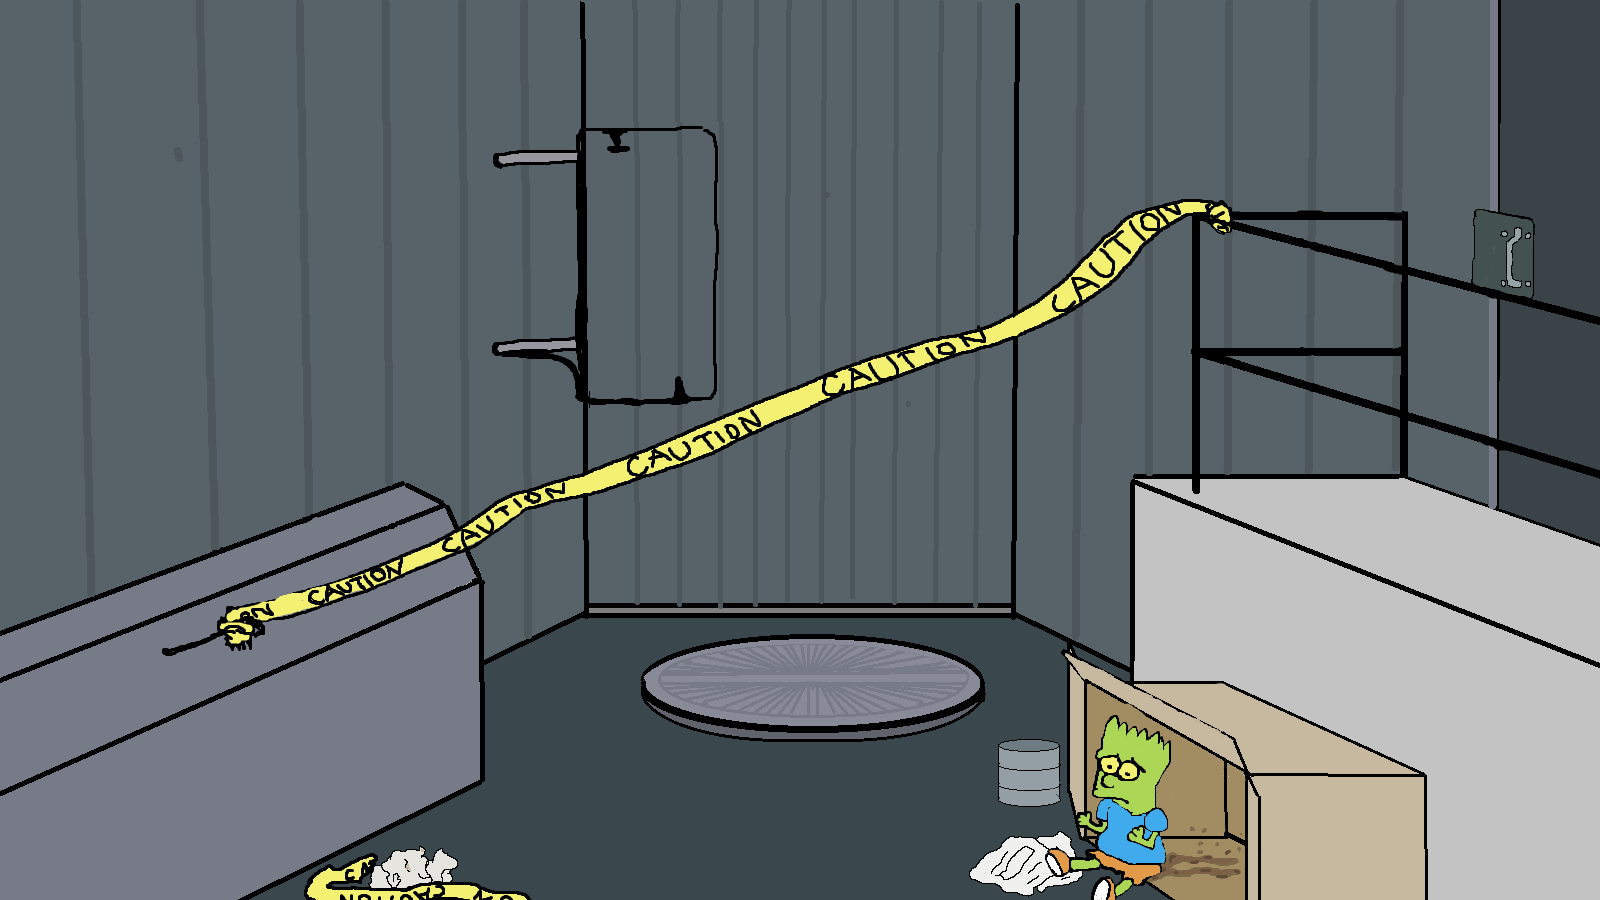
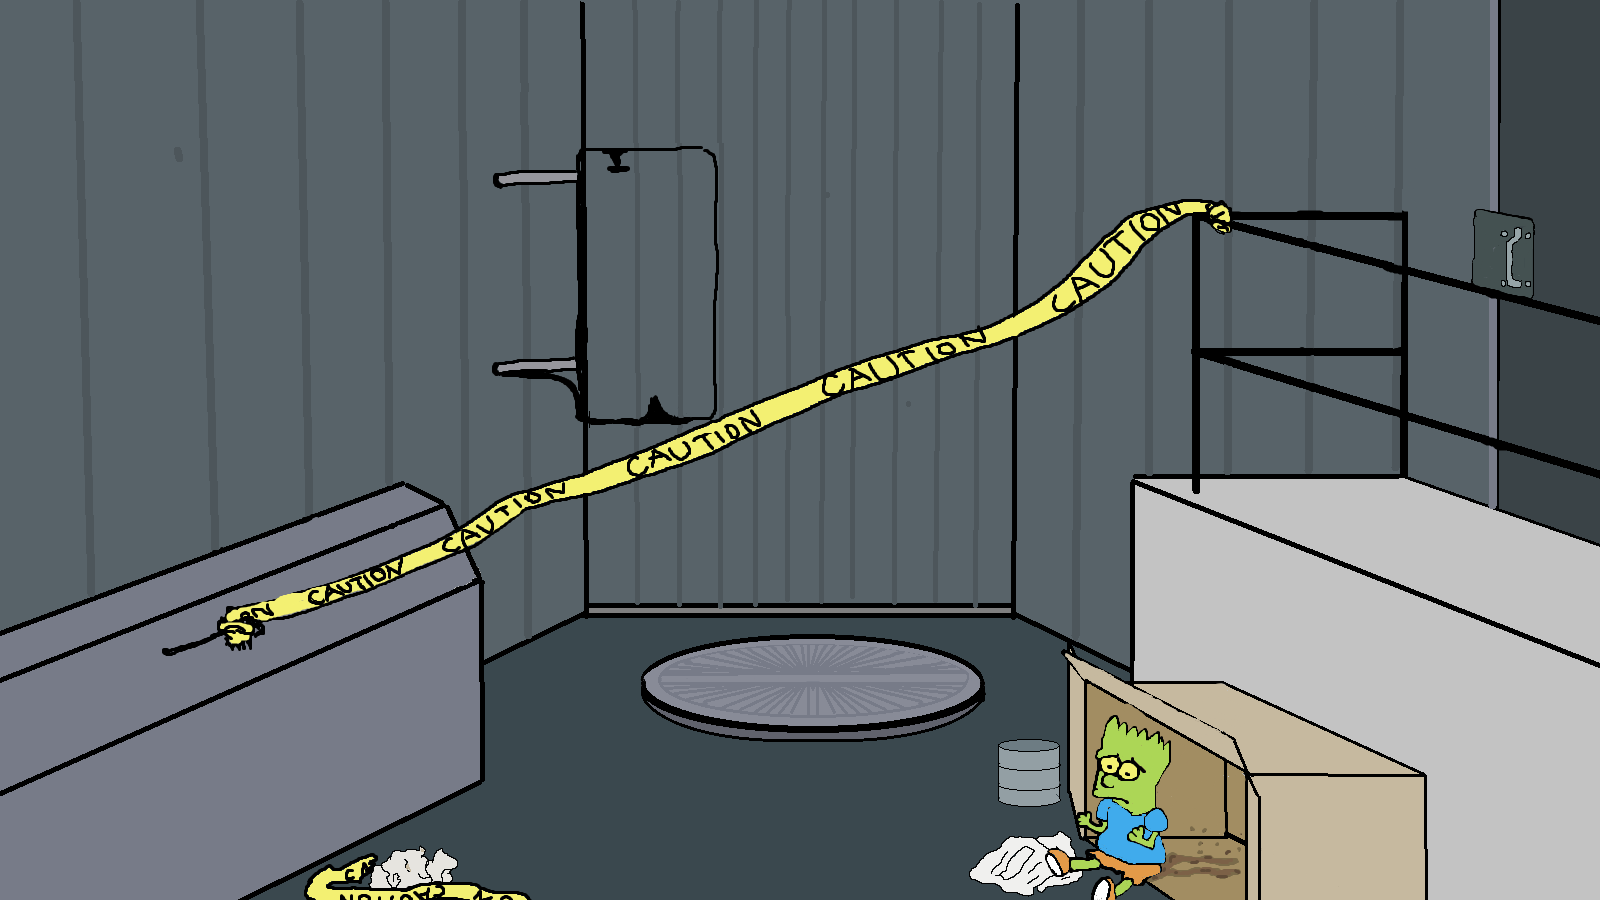
adjust hover for cursor.

Changed region(s): [[0.3125, 0.3733, 0.4688, 0.4978], [0.3125, 0.1244, 0.4688, 0.2178]]

diff --git a/TeamWeekClient/wwwroot/css/bgStyles.css b/TeamWeekClient/wwwroot/css/bgStyles.css
@@ -55,11 +55,11 @@
   align-items: center;
   justify-content: center;
   position: absolute;
-  border: 1px solid black;
-  width: 80px;
+  border: 2px solid black;
+  width: 82px;
   height: 170px;
   left: 365px;
-  top: 80px;
+  top: 92px;
 }
 
 .signLetter {
@@ -78,6 +78,10 @@
   animation: neon 2s infinite;
 }
 
+.signLetter p:hover {
+  cursor: default;
+}
+
 @keyframes neon {
   0% { text-shadow: 0px 0px 0px rgba(198, 9, 255, 0); color: #000000;}
   50% { text-shadow: 0px 0px 0px rgb(251, 9, 255), 10px 10px 4px #000000; color: #00000000;}
@@ -87,7 +91,7 @@
 .downArrowP {
   position: absolute;
   left: 355px;
-  top: 85px;
+  top: 98px;
   animation: neonArrow 2s infinite;
 }
 

diff --git a/TeamWeekClient/wwwroot/css/styles.css b/TeamWeekClient/wwwroot/css/styles.css
@@ -42,13 +42,6 @@ div#footer {
   text-align: center;
 }
 
-#footer {
-  position: absolute;
-  bottom: 0;
-  width: 100%;
-  height: 2.5rem;
-}
-
 /* ANIMATION */
 .player1 {
   width: 200px;
@@ -169,6 +162,7 @@ div#footer {
 /* Fonts */
 .styledHeader{
   font-family: PhillySans;
+  position: absolute;
   z-index: 1;
   font-size: 50pt;
   color: #FF57BE;
